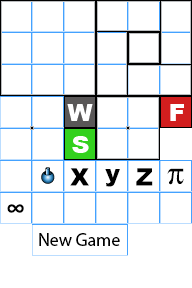
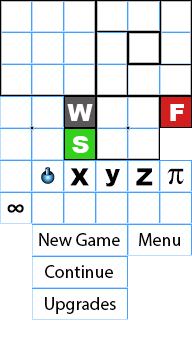
Menus and title screen added
Clicking Menu will cause you to lose all progress. Should save the
state and be able to open it again if you click continue.

Changed region(s): [[0.0, 0.1562, 1.0, 0.9375], [0.0, 0.0625, 1.0, 0.125], [0.0, 0.0, 1.0, 0.0312]]

diff --git a/GraphTD/GameLayer.m b/GraphTD/GameLayer.m
@@ -1,41 +1,26 @@
 //
-//  HelloWorldLayer.m
+//  GameLayer.m
 //  TDKit
 //
-//  Created by Tommy Allen on 7/11/13.
-//  Copyright Nevernull 2013. All rights reserved.
+//  Created by James Covey on 8/5/13.
+//  Copyright 2013 Nevernull. All rights reserved.
 //
 
-// Import the interfaces
-#import "HelloWorldLayer.h"
-
-// Needed to obtain the Navigation Controller
+#import "GameLayer.h"
 #import "AppDelegate.h"
 #import "PFHeap.h"
-#import "GameLayer.h"
+#import "HelloWorldLayer.h"
 
-#pragma mark - HelloWorldLayer
+@implementation GameLayer
 
-// HelloWorldLayer implementation
-@implementation HelloWorldLayer
-
-// Helper class method that creates a Scene with the HelloWorldLayer as the only child.
 +(CCScene *) scene
 {
-	// 'scene' is an autorelease object.
 	CCScene *scene = [CCScene node];
-	
-	// 'layer' is an autorelease object.
-	HelloWorldLayer *layer = [HelloWorldLayer node];
-	
-	// add layer as a child to scene
+	GameLayer *layer = [GameLayer node];
 	[scene addChild: layer];
-	
-	// return the scene
 	return scene;
 }
 
-// on "init" you need to initialize your instance
 -(id) init
 {
 	// always call "super" init
@@ -48,7 +33,7 @@
         
         _selectedTool = kTDBlaster;
 		
-		_map = [[TDMap alloc] initWithTMXFile:@"Maps/title.tmx"];
+		_map = [[TDMap alloc] initWithTMXFile:@"Maps/Template.tmx"];
 		[self addChild:_map];
 		[self schedule:@selector(spawnCreep) interval:1];
 		
@@ -106,39 +91,43 @@
 	CGPoint pos = [touch locationInView:[touch view]];
 	pos = [_map tileForPosition:pos];
     
-    
-    
-    /*
     //These are the normal tower buttons
     if((pos.x >= 7 && pos.x <= 9) && (pos.y >= 21 && pos.y <= 23))
     {
         _selectedTool = kTDBlaster;
     }
-    
+     
     if((pos.x >= 10 && pos.x <= 12) && (pos.y >= 21 && pos.y <= 23))
     {
         _selectedTool = kTDBeam;
     }
-    
+     
     if((pos.x >= 13 && pos.x <= 15) && (pos.y >= 21 && pos.y <= 23))
     {
         _selectedTool = kTDSpazer;
     }
-    
+     
     if((pos.x >= 16 && pos.x <= 18) && (pos.y >= 21 && pos.y <= 23))
     {
         _selectedTool = kTDSplash;
     }
-    
+     
     if((pos.x >= 19 && pos.x <= 21) && (pos.y >= 21 && pos.y <= 23))
     {
         _selectedTool = kTDTime;
     }
-    */
+    
+    if((pos.x >= 29 && pos.x <= 30) && (pos.y >= 21 && pos.y <= 23))
+    {
+        NSLog(@"MENUUUUUU!!!");
+        [[CCDirector sharedDirector] replaceScene:[CCTransitionFade transitionWithDuration:1.0 scene:[HelloWorldLayer scene] ]];
+    }
+    
+    /*
+    //Buttons for titles
     if((pos.x >= 4 && pos.x <= 6) && (pos.y >= 21 && pos.y <= 23))
     {
         NSLog(@"Start Button Pressed LETS GET IT STARTED!");
-        [[CCDirector sharedDirector] replaceScene:[CCTransitionFade transitionWithDuration:1.0 scene:[GameLayer scene]]];
     }
     
     if((pos.x >= 15 && pos.x <= 18) && (pos.y >= 21 && pos.y <= 23))
@@ -150,7 +139,8 @@
     {
         NSLog(@"UPGRAYEDD, with a double D for a double dose of pimping!");
     }
-
+    */
+    
 	
 	if (![_map isWallAt:pos])
 	{
@@ -181,28 +171,11 @@
     }
 }
 
-// on "dealloc" you need to release all your retained objects
 - (void) dealloc
 {
-	// in case you have something to dealloc, do it in this method
-	// in this particular example nothing needs to be released.
-	// cocos2d will automatically release all the children (Label)
-	
-	// don't forget to call "super dealloc"
+
 	[super dealloc];
 }
 
-#pragma mark GameKit delegate
 
--(void) achievementViewControllerDidFinish:(GKAchievementViewController *)viewController
-{
-	AppController *app = (AppController*) [[UIApplication sharedApplication] delegate];
-	[[app navController] dismissModalViewControllerAnimated:YES];
-}
-
--(void) leaderboardViewControllerDidFinish:(GKLeaderboardViewController *)viewController
-{
-	AppController *app = (AppController*) [[UIApplication sharedApplication] delegate];
-	[[app navController] dismissModalViewControllerAnimated:YES];
-}
 @end

diff --git a/GraphTD/GameLayer.h b/GraphTD/GameLayer.h
@@ -1,0 +1,23 @@
+//
+//  GameLayer.h
+//  TDKit
+//
+//  Created by James Covey on 8/5/13.
+//  Copyright 2013 Nevernull. All rights reserved.
+//
+
+#import "cocos2d.h"
+#import "TDMap.h"
+#import "NNEntity.h"
+#import "NNTower.h"
+#import "NNMonster.h"
+
+@interface GameLayer : CCLayer {
+    TDMap *_map;
+    int _selectedTool;
+}
+
++(CCScene *) scene;
+-(void)spawnCreep;
+
+@end
